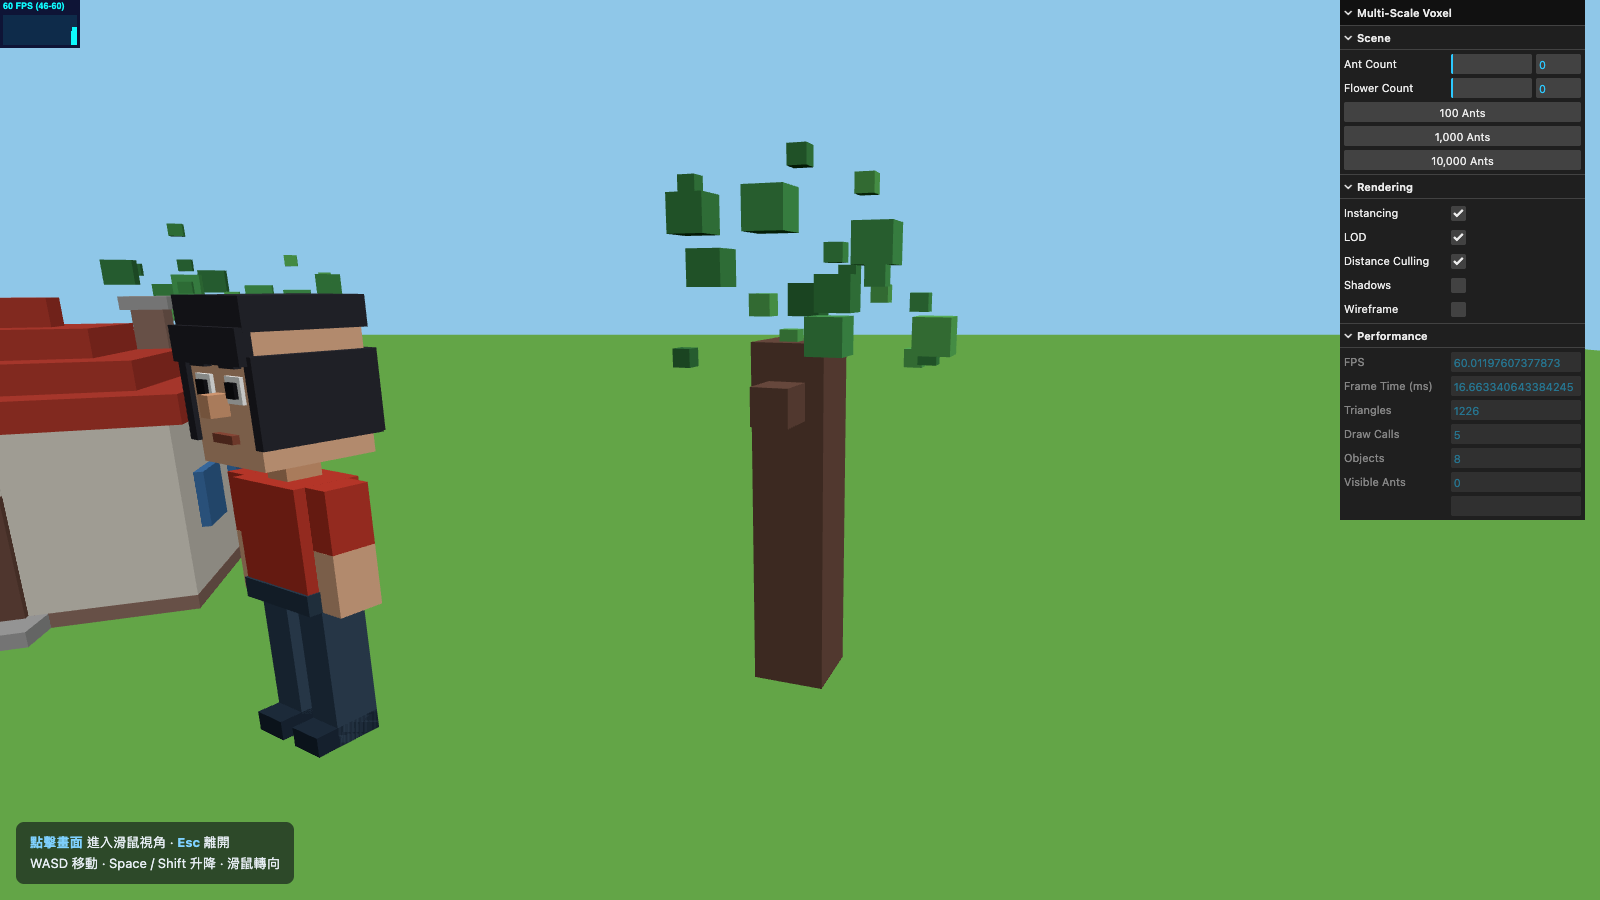
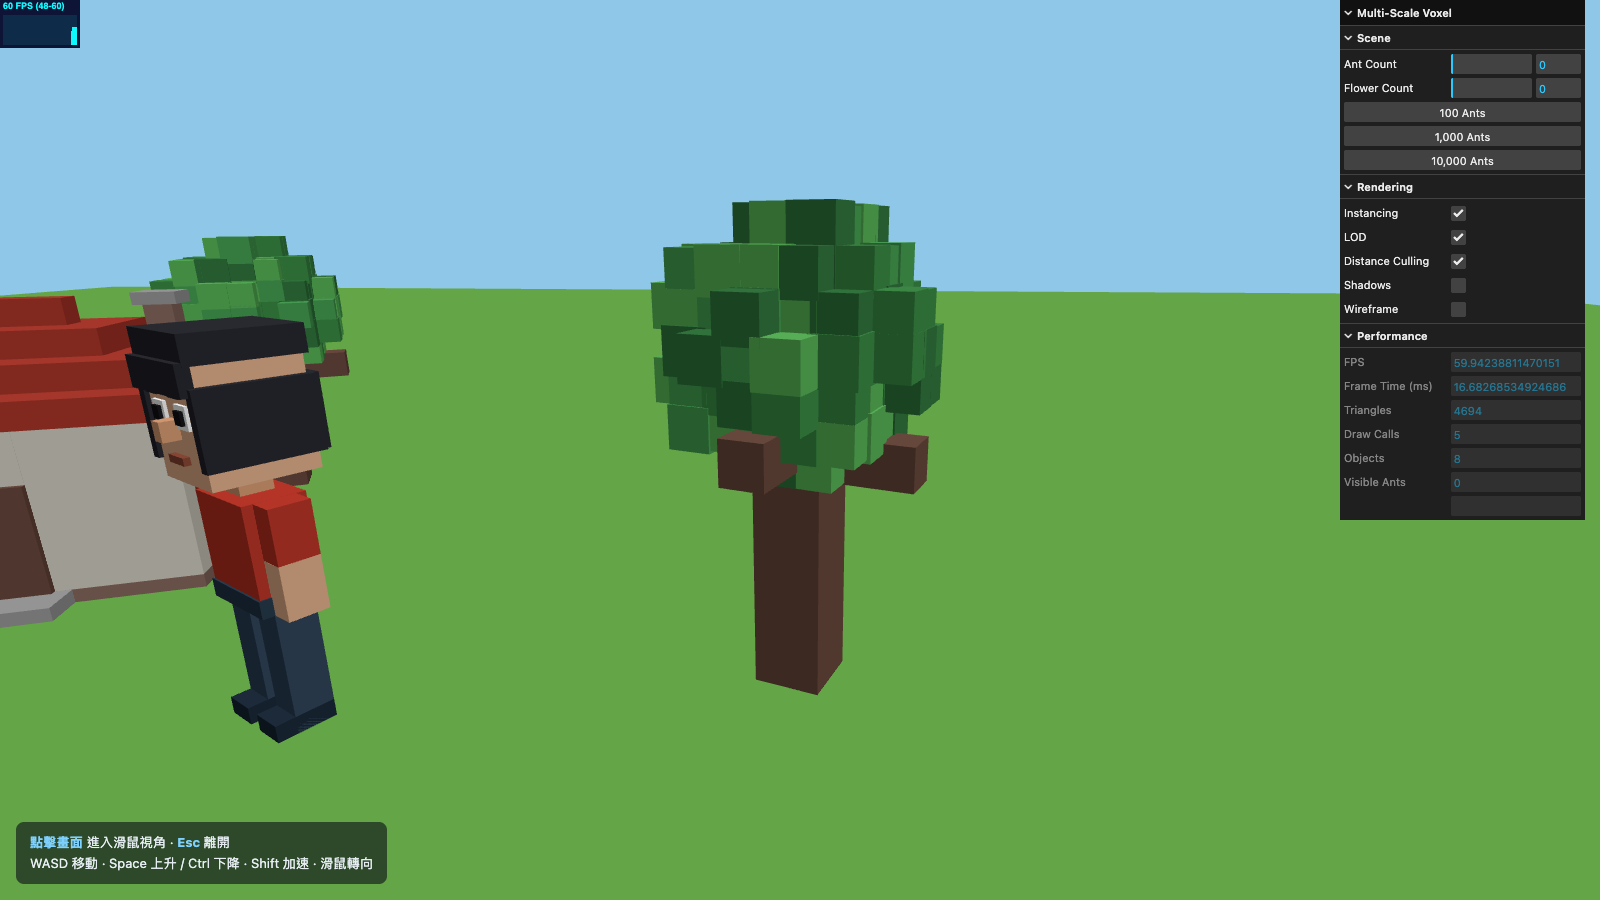
test(debug): 修正截圖鏡頭與渲染開關並重跑 Phase 1 驗證
- 03-house-facade 相機改為 [-22, 13, 20]，原 z=30 會落進 Tree#2 樹冠。
- 08-ant-field 關閉距離剔除，否則拍到的是剔除後的假分佈。
- 09-ant-closeup 對準 #7 的 3/4 前側視角，從正後方拍看不到觸角。
- 新增 DEFAULT_FLAGS，避免單一 shot 的 flags 污染下一個 shot。
- 重跑並更新 docs/verification/README.md：更正前一版誤判的
  「Character 插進屋簷」，更新量測數字與各 issue 修正結論。

diff --git a/docs/verification/README.md b/docs/verification/README.md
@@ -38,41 +38,46 @@ SwiftShader 是 CPU 軟體渲染，FPS 與真實 GPU 無關。**只有 drawCall 
 |---|---|---|
 | `01-overview.png` | 全場景同框 | 俯瞰 |
 | `02-scale-lineup.png` | 尺度對照（隱藏螞蟻與花） | House 與 Character 的**等距點** |
-| `03-house-facade.png` | House 正面 | 正面 |
+| `03-house-facade.png` | House 正面 | 正面（避開 Tree#2 樹冠） |
 | `04-character-full.png` | Character 全身 | 正面平視 |
 | `05-character-face.png` | Character 頭部特寫 | 特寫 |
 | `06-tree.png` | Tree 混合尺度 | 側面 |
 | `07-flowers-ground.png` | 花卉群 200 朵 | 花圈外 |
-| `08-ant-field.png` | 螞蟻 10,000 隻 | 俯瞰 |
-| `09-ant-closeup.png` | 螞蟻 1,000 隻 | 近距離 |
+| `08-ant-field.png` | 螞蟻 10,000 隻 | 俯瞰（關閉距離剔除） |
+| `09-ant-closeup.png` | 螞蟻 1,000 隻 | 對準 #7 的 3/4 前側視角 |
 
-鏡頭位置是刻意挑的：
+鏡頭位置是刻意挑的，而且踩過幾個坑：
 
-- 花的分佈是**半徑 8~50 的圓環**。相機若落在圓環內會直接貼在花上（第一版 harness 的
-  `07` 與 `09` 就是這樣，畫面被一整塊花瓣蓋住）。現在 `07` 的相機在圓環外，`09` 直接
-  把 `flowerCount` 設 0。
+- 花的分佈是**半徑 8~50 的圓環**。相機若落在圓環內會直接貼在花上，所以 `07` 的相機
+  取在圓環外，`09` 直接把 `flowerCount` 設 0。
 - `02-scale-lineup` 的相機取在 House 與 Character 的**等距點**上，否則透視會讓其中一方
   被放大而誤導尺度判讀。
+- `03-house-facade` 相機必須避開 Tree#2 的樹冠（z 25.7~40.1）。第一版相機落在樹冠內部，
+  整張圖變暗（mean 44,95,51）。
+- `08-ant-field` 必須 **關閉 distanceCulling**，否則拍到的是距離剔除後的假分佈
+  （看起來像一小塊菱形，而不是完整圓盤）。
+- `09-ant-closeup` 的相機要落在螞蟻的**前側方**。螞蟻 #7 朝向約 75.7°，若從正後方拍，
+  頭部與觸角會被身體擋住，誤判為「沒有觸角」。
 
 ## 量測結果（`report.json`）
 
 `renderer.info.render.triangles` 是**整帧總量**，含場景其他物件，所以第一列 `antCount = 0`
-是基準線，用來扣掉場景本身。
+是基準線，用來扣掉場景本身。`visibleAnts` 是實際送入 GPU 的螞蟻數（已扣距離剔除與安全上限）。
 
 | 螞蟻數 | Instancing | Draw calls | Triangles | 實際送出 |
 |---:|---|---:|---:|---:|
-| 0（基準線） | — | 47 | 5,102 | 0 |
-| 100 | ON | 49 | 9,278 | 66 |
-| 100 | OFF | 75 | 9,470 | 66 |
-| 1,000 | ON | 49 | 48,254 | 672 |
-| 1,000 | OFF | 284 | 42,074 | 672 |
-| 10,000 | ON | **49** | 429,962 | 6,545 |
-| 10,000 | OFF | 284 | 42,074 | 672 |
+| 0（基準線） | — | 47 | 10,202 | 0 |
+| 100 | ON | 49 | 13,730 | 70 |
+| 100 | OFF | 69 | 14,162 | 70 |
+| 1,000 | ON | 49 | 48,002 | 746 |
+| 1,000 | OFF | 244 | 45,662 | 746 |
+| 10,000 | ON | **49** | 386,222 | 7,441 |
+| 10,000 | OFF | 244 | 45,662 | 746 |
 
 兩個重點：
 
 1. **Instancing 讓 draw call 與螞蟻數量脫鉤**：10,000 隻仍然是 49 個 draw call（2 個
-   InstancedMesh + 場景）。OFF 模式在 1,000 隻就要 284 個 draw call。
+   InstancedMesh + 場景）。OFF 模式在 1,000 隻就要 244 個 draw call。
 2. **OFF 模式的 10,000 那列與 1,000 完全相同**，因為安全上限
    `MAX_NON_INSTANCED_ANTS = 1000` 生效——刻意不讓頁面崩潰（PRD 要求）。
 
@@ -85,37 +90,55 @@ OFF 模式一律使用 detailed 幾何。
 
 | 檢查項 | 結果 |
 |---|---|
-| 四個尺度（House > Human > Flower > Ant）共存不違和 | ❌ **不通過** |
+| 四個尺度（House > Human > Flower > Ant）共存不違和 | ❌ **不通過**（見下方 #7） |
 | Character 有 Voxel 特色、不是 Minecraft 式巨大方塊臉 | ✅ 通過 |
 | 近看可辨識眼睛 / 眉毛 / 鼻子 / 嘴巴 / 耳朵 / 髮型 | ⚠ 部分通過（耳朵不可見） |
 | 遠看維持整體統一視覺語言 | ✅ 通過 |
 
-### 發現的問題
+### 首輪發現的問題與處理
 
-1. **尺度順序錯誤（違反 PRD §7）**
+1. **尺度順序錯誤（違反 PRD §7）** — 仍待決策
    House 高 21、Character 高 21.5 → **Human ≥ House**。更明顯的是門高只有 8，
    角色卻是 21.5，等於角色有 2.6 倍門高，根本進不去。轉往 issue
    [#7](https://github.com/chiisen/Minecraft/issues/7)。
 
-2. **物件擺放互相穿模**
-   Character 站在 (10, 6)，正好落在 House 屋頂的佔地範圍（x ±13、z ±10）內，
-   頭部直接插進屋簷。花與螞蟻是隨機撒在整個圓環／圓盤上，沒有避開建築，
-   因此會穿過門板與牆面。
+2. **物件擺放互相穿模** — ✅ 已修正（[#12](https://github.com/chiisen/Minecraft/issues/12)）
+   花與螞蟻原本隨機撒在整個圓環／圓盤上，會穿過建築。改為在取樣時避開「排除區域」
+   （House / Character / Tree 的佔地），實測：
 
-3. **Tree 樹冠不成形**
-   `addCanopy()` 在 46 次取樣、半徑 8 的球內只成功放進 22~33 顆 1~2 單位方塊
-   （體積覆蓋率僅 3.5%~5.2%），視覺上就是一堆**懸空、彼此不相連的綠色方塊**。
+   | 對象 | 修正前落在建築內 | 修正後 |
+   |---|---:|---:|
+   | 50 朵花 | 13 | 0 |
+   | 10,000 隻螞蟻 | 423 | 0 |
 
-4. **螞蟻近距離無法辨識**
-   10,000 隻撒在半徑 100 的圓盤上，平均間距約 1.77 單位，但螞蟻體長 3.6 單位 →
-   大量互相穿透。加上體色 `0x2b1d16` 過暗，近看是一團深色方塊，看不出頭／胸／腹／腳。
+   > **更正前一版報告的錯誤主張**：前一版寫「Character 站在 (10,6)，落在 House 屋頂佔地
+   > 範圍內，頭部插進屋簷」。經實測，Character (10,6) 與 House (-22,-12) 的佔地
+   > （x[-35,-9] z[-22,0] vs x[6,14] z[3,9]）**根本沒有重疊**，是誤把 House 的區域座標
+   > 當成世界座標判讀。Tree 與 House 的幾何重疊體積實測為 0（僅 0.1 間隙，視覺上像前後
+   > 遮擋）；`TREE_RADIUS` 仍由 34 加大到 38，以消除視覺疑慮並留出明確淨空。
 
-5. **Character 耳朵被頭髮完全遮住**（次要）
+3. **Tree 樹冠不成形** — ✅ 已修正（[#13](https://github.com/chiisen/Minecraft/issues/13)）
+   原本在 46 次取樣、半徑 8 的球內只放進 22~33 顆方塊（覆蓋率僅 3.5%~5.2%），視覺上
+   是一堆**懸空、彼此不相連的綠色方塊**。改為**體素格點填滿球體**（`LEAF_STEP = 2`）
+   並以隨機半徑製造不規則輪廓，不做隨機挖空。實測葉片數 162 / 175 / 166，葉片與枝幹
+   相接、無懸浮。
+
+4. **螞蟻近距離無法辨識** — ✅ 已修正（[#14](https://github.com/chiisen/Minecraft/issues/14)）
+   原本 10,000 隻撒在半徑 100 的圓盤上、平均間距約 1.77 單位，但體長 3.6 單位 → 大量
+   互相穿透；體色 `0x2b1d16` 過暗，近看是一團深色方塊。修正：
+   - 體色改為暖棕 `0x8f5a2e` / 深棕 `0x50331b`，做出明暗對比。
+   - 活動半徑 100 → **140**，降低擁擠度。
+   - 三節身體加粗並做出**腰身**（中段變細抬高），近看可分辨頭 / 胸 / 腹。
+   - 眼睛移到頭部側面並突出；觸角改為**細長、末端上折的倒 L 型**。
+   - 近距離截圖改為 3/4 前側視角後，視覺判讀確認「清楚是一隻螞蟻」。
+
+5. **Character 耳朵被頭髮完全遮住**（次要）— 待處理
    耳朵在 x = ±2.6、寬 0.5；頭髮側片在 x = ±2.7、寬 0.6，正好蓋住耳朵。
    屬於 Phase 3（issue [#5](https://github.com/chiisen/Minecraft/issues/5)）的改善範圍。
 
 ## 後續
 
-- 尺度比例：issue #7（需決策）
-- 擺放穿模、Tree 樹冠、Ant 辨識度：已建立後續 issue
+- 尺度比例：issue #7（**需決策**，目前唯一未通過的檢查項）
+- 擺放穿模（#12）、Tree 樹冠（#13）、Ant 辨識度（#14）：**已修正並複驗**
 - Character 耳朵：併入 issue #5
+- 實機 GPU 效能：issue #4 / #8（需在真實 GPU 上驗證）
